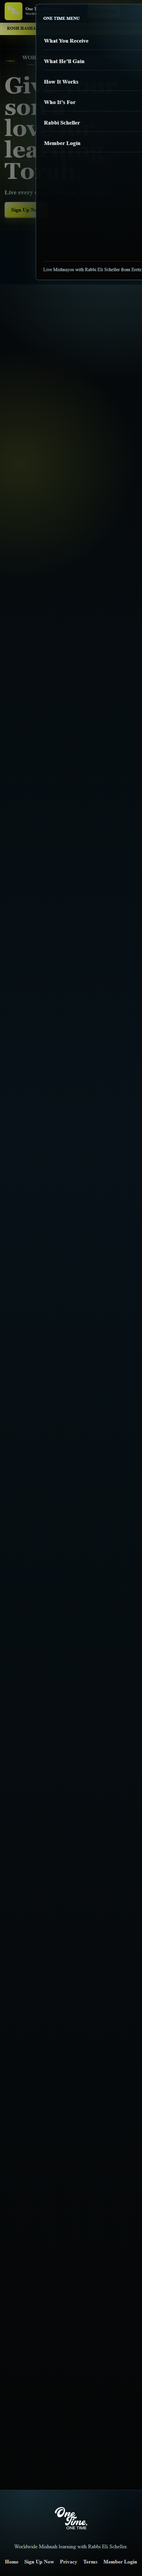
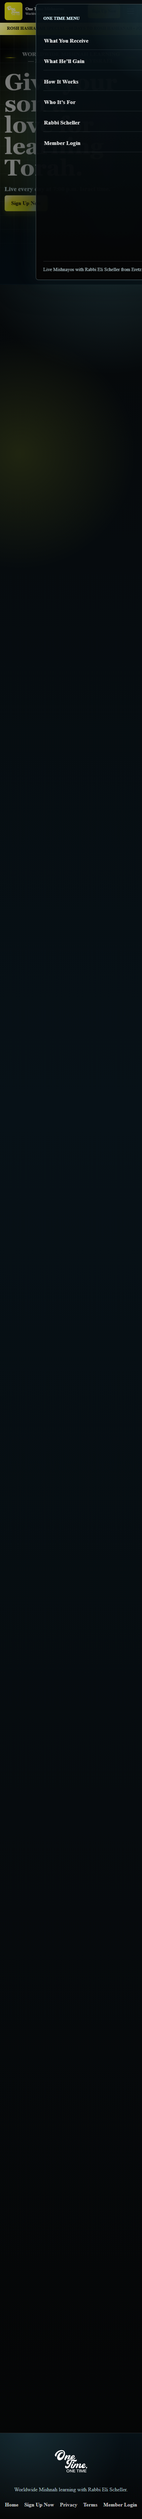
Tighten One Time bot and landing polish

diff --git a/public/one-time/index.html b/public/one-time/index.html
@@ -22,13 +22,13 @@
       --muted: rgba(255, 255, 255, 0.72);
       --ice: #dff8ff;
       --blue: #86e8ff;
-      --yellow: #f0ff32;
-      --yellow-soft: #faff82;
+      --yellow: #ede518;
+      --yellow-soft: #fff46a;
       --line: rgba(223, 248, 255, 0.18);
       --shadow: 0 30px 90px rgba(0, 0, 0, 0.48);
       --sans: Inter, ui-sans-serif, system-ui, -apple-system, BlinkMacSystemFont, "Segoe UI", sans-serif;
       --serif: Georgia, "Times New Roman", Times, serif;
-      --header-height: 74px;
+      --header-height: 76px;
     }
 
     * { box-sizing: border-box; }
@@ -77,11 +77,9 @@
       z-index: 1200;
       min-height: var(--header-height);
       border-bottom: 1px solid rgba(237, 229, 24, 0.24);
-      background:
-        radial-gradient(circle at 84% 0%, rgba(237, 229, 24, 0.12), transparent 20rem),
-        rgba(8, 9, 16, 0.96);
+      background: rgba(8, 9, 16, 0.96);
       backdrop-filter: blur(12px);
-      box-shadow: 0 10px 26px rgba(0, 0, 0, 0.22);
+      box-shadow: none;
     }
     .header-inner {
       min-height: var(--header-height);
@@ -165,7 +163,7 @@
       justify-content: center;
       gap: 9px;
       overflow: hidden;
-      border: 1px solid rgba(223, 248, 255, 0.7);
+      border: 1px solid rgba(237, 229, 24, 0.55);
       border-radius: 6px;
       padding: 0 19px;
       color: #040404;
@@ -174,8 +172,7 @@
         linear-gradient(180deg, var(--yellow-soft) 0%, var(--yellow) 48%, #e8f525 100%);
       box-shadow:
         inset 0 1px 0 rgba(255, 255, 255, 0.92),
-        inset 0 -2px 0 rgba(5, 5, 5, 0.28),
-        0 10px 24px rgba(237, 229, 24, 0.22);
+        0 8px 18px rgba(237, 229, 24, 0.2);
       font-weight: 950;
       white-space: nowrap;
       transition: transform 160ms ease, box-shadow 160ms ease, filter 160ms ease;
@@ -195,8 +192,7 @@
       filter: saturate(1.05);
       box-shadow:
         inset 0 1px 0 rgba(255, 255, 255, 0.95),
-        inset 0 -2px 0 rgba(5, 5, 5, 0.28),
-        0 14px 28px rgba(237, 229, 24, 0.28),
+        0 10px 22px rgba(237, 229, 24, 0.24),
         0 0 0 4px rgba(134, 232, 255, 0.18);
     }
     .chrome-button:hover::before, .chrome-button:focus-visible::before { transform: translateX(130%); }
@@ -369,7 +365,7 @@
     .hero-actions, .final-actions { display: flex; align-items: center; gap: 14px; flex-wrap: wrap; }
     @keyframes hero-in { from { opacity: 0; transform: translateY(22px); } to { opacity: 1; transform: translateY(0); } }
 
-    .section { position: relative; overflow: hidden; padding: clamp(62px, 7vw, 96px) 0; }
+    .section { position: relative; overflow: hidden; padding: clamp(52px, 6vw, 82px) 0; }
     .section.dark {
       background:
         radial-gradient(circle at 18% 18%, rgba(134, 232, 255, 0.14), transparent 22rem),
@@ -382,7 +378,7 @@
         radial-gradient(circle at 12% 70%, rgba(240, 255, 50, 0.08), transparent 18rem),
         linear-gradient(180deg, #071117, #0a1b24);
     }
-    .section-title { max-width: 820px; margin: 0 0 34px; }
+    .section-title { max-width: 820px; margin: 0 0 28px; }
     .section-title.center { margin-inline: auto; text-align: center; }
     .section-title p { max-width: 700px; margin: 16px 0 0; color: rgba(223, 248, 255, 0.78); font-size: clamp(1rem, 1.6vw, 1.18rem); }
     .receive-composition { display: grid; grid-template-columns: minmax(280px, 0.8fr) minmax(0, 1.2fr); align-items: center; gap: clamp(34px, 5vw, 72px); }
@@ -444,7 +440,7 @@
     }
     .benefit-body { display: grid; align-content: start; gap: 13px; }
     .benefit-body p { margin: 0; color: rgba(255, 255, 255, 0.84); }
-    .step-copy { max-width: 780px; margin: -14px auto 38px; color: rgba(223, 248, 255, 0.78); text-align: center; font-size: clamp(1rem, 1.5vw, 1.14rem); }
+    .step-copy { max-width: 780px; margin: -12px auto 30px; color: rgba(223, 248, 255, 0.78); text-align: center; font-size: clamp(1rem, 1.5vw, 1.14rem); }
     .step-flow { position: relative; display: grid; grid-template-columns: repeat(3, minmax(0, 1fr)); gap: 18px; }
     .step-flow::before { content: ""; position: absolute; top: 49px; left: 16%; right: 16%; height: 2px; background: linear-gradient(90deg, transparent, var(--blue), var(--yellow), var(--blue), transparent); box-shadow: 0 0 28px rgba(134, 232, 255, 0.34); }
     .step {
@@ -484,7 +480,7 @@
     .audience-grid { display: grid; grid-template-columns: repeat(4, minmax(0, 1fr)); gap: 16px; }
     .audience-card { min-height: 176px; display: grid; align-content: center; gap: 15px; padding: 20px; border-radius: 8px; }
     .audience-card p { margin: -5px 0 0; color: var(--yellow-soft); font-size: 0.9rem; font-weight: 850; }
-    .rabbi-layout { display: grid; grid-template-columns: minmax(0, 0.84fr) minmax(320px, 0.72fr); gap: clamp(28px, 5vw, 64px); align-items: center; margin-bottom: 54px; }
+    .rabbi-layout { display: grid; grid-template-columns: minmax(0, 0.84fr) minmax(320px, 0.72fr); gap: clamp(28px, 5vw, 64px); align-items: center; margin-bottom: 46px; }
     .rabbi-copy p:not(.eyebrow) { max-width: 640px; color: rgba(255, 255, 255, 0.78); font-size: 1.08rem; }
     .rabbi-photo { position: relative; margin: 0; aspect-ratio: 4 / 3; overflow: hidden; border: 1px solid rgba(223, 248, 255, 0.2); border-radius: 8px; box-shadow: var(--shadow); }
     .rabbi-photo::after { content: ""; position: absolute; inset: 0; border: 1px solid rgba(255, 255, 255, 0.12); pointer-events: none; }
@@ -504,13 +500,13 @@
     .carousel-dot { width: 11px; height: 11px; border: 1px solid rgba(223, 248, 255, 0.5); border-radius: 999px; background: rgba(223, 248, 255, 0.18); cursor: pointer; }
     .carousel-dot.active { width: 28px; background: var(--yellow); border-color: var(--yellow); box-shadow: 0 0 18px rgba(240, 255, 50, 0.34); }
     .carousel-dot:focus-visible { outline: 3px solid var(--blue); outline-offset: 3px; }
-    .press-band { margin-top: 60px; overflow: hidden; border-top: 1px solid rgba(223, 248, 255, 0.14); border-bottom: 1px solid rgba(223, 248, 255, 0.14); padding: 26px 0; }
+    .press-band { margin-top: 48px; overflow: hidden; border-top: 1px solid rgba(223, 248, 255, 0.14); border-bottom: 1px solid rgba(223, 248, 255, 0.14); padding: 24px 0; }
     .press-band h3 { margin: 0 0 18px; color: rgba(223, 248, 255, 0.82); text-align: center; }
     .press-track { width: max-content; display: flex; align-items: center; gap: 28px; animation: press-marquee 28s linear infinite; }
     .press-logo { width: 138px; height: 46px; display: grid; place-items: center; opacity: 0.72; filter: grayscale(1) brightness(1.24); }
     .press-logo img { max-width: 124px; max-height: 34px; object-fit: contain; background: transparent; }
     @keyframes press-marquee { from { transform: translateX(0); } to { transform: translateX(-50%); } }
-    .final-cta { padding: 64px 0; background: radial-gradient(circle at 50% 0%, rgba(240, 255, 50, 0.16), transparent 20rem), radial-gradient(circle at 80% 80%, rgba(134, 232, 255, 0.16), transparent 22rem), linear-gradient(180deg, #050505, #071117); text-align: center; }
+    .final-cta { padding: 56px 0; background: radial-gradient(circle at 50% 0%, rgba(237, 229, 24, 0.16), transparent 20rem), radial-gradient(circle at 80% 80%, rgba(134, 232, 255, 0.16), transparent 22rem), linear-gradient(180deg, #050505, #071117); text-align: center; }
     .final-cta h2 { margin-bottom: 24px; }
     .final-actions { justify-content: center; }
     .one-time-site-footer { border-top: 1px solid rgba(223, 248, 255, 0.16); background: radial-gradient(circle at 20% 0%, rgba(134, 232, 255, 0.12), transparent 18rem), linear-gradient(180deg, #071117, #050505); }
@@ -542,10 +538,10 @@
       .header-cta { min-height: 42px; padding: 0 11px; font-size: 0.82rem; }
       .icon-button { width: 42px; height: 42px; }
       .rosh-link { min-height: 36px; font-size: 0.82rem; }
-      .hero { min-height: calc(100svh - var(--header-height) - 36px); align-items: start; padding: 52px 0 112px; }
+      .hero { min-height: calc(100svh - var(--header-height) - 36px); align-items: start; padding: 42px 0 126px; }
       .hero .eyebrow { grid-template-columns: 36px minmax(0, auto) 36px; gap: 10px; font-size: clamp(0.95rem, 4vw, 1.06rem); text-align: center; }
-      .hero-schedule { margin-bottom: 22px; }
-      .hero-actions { margin-top: -4px; }
+      .hero-schedule { margin-bottom: 18px; }
+      .hero-actions { margin-top: -10px; }
       h1 { font-size: clamp(3.1rem, 16vw, 4.75rem); }
       .feature-grid, .benefit-grid, .audience-grid, .step-flow { grid-template-columns: 1fr; }
       .step-flow::before { top: 42px; bottom: 42px; left: 50%; right: auto; width: 2px; height: auto; background: linear-gradient(180deg, transparent, var(--blue), var(--yellow), var(--blue), transparent); }

diff --git a/public/one-time/signup.html b/public/one-time/signup.html
@@ -15,9 +15,9 @@
       --white: #ffffff;
       --paper: #f8f7f1;
       --muted-dark: #5b6268;
-      --yellow: #f0ff32;
-      --yellow-soft: #faff82;
-      --chrome: linear-gradient(115deg, rgba(255, 255, 255, 0.72) 0%, transparent 18%, transparent 58%, rgba(223, 248, 255, 0.68) 72%, transparent 100%), linear-gradient(180deg, #faff82 0%, #f0ff32 48%, #e8f525 100%);
+      --yellow: #ede518;
+      --yellow-soft: #fff46a;
+      --chrome: linear-gradient(115deg, rgba(255, 255, 255, 0.72) 0%, transparent 18%, transparent 58%, rgba(223, 248, 255, 0.68) 72%, transparent 100%), linear-gradient(180deg, #fff46a 0%, #ede518 52%, #e5dd16 100%);
       --ice: #dff8ff;
       --ice-strong: #8ee5ff;
       --line: rgba(255, 255, 255, 0.16);
@@ -93,66 +93,94 @@
       position: sticky;
       top: 0;
       z-index: 5;
-      border-bottom: 1px solid var(--line);
-      background: rgba(5, 5, 5, 0.94);
-      backdrop-filter: blur(16px);
+      border-bottom: 1px solid rgba(237, 229, 24, 0.2);
+      background: rgba(8, 9, 16, 0.96);
+      backdrop-filter: blur(12px);
     }
 
     .header-inner {
       width: min(1180px, calc(100% - 36px));
-      min-height: 74px;
+      min-height: 76px;
       margin: 0 auto;
       display: flex;
       align-items: center;
-      justify-content: space-between;
-      gap: 18px;
+      justify-content: flex-end;
+      gap: 8px;
     }
 
     .brand-lockup {
       display: inline-flex;
       align-items: center;
-      gap: 12px;
-      min-width: 0;
+      gap: 9px;
+      min-width: min(100%, 240px);
+      margin-right: auto;
+      color: var(--white);
+      font-weight: 950;
+      line-height: 1.08;
     }
 
     .brand-lockup img {
-      width: 120px;
-      height: auto;
+      width: 56px;
+      height: 56px;
+      flex: 0 0 auto;
+      padding: 4px;
+      border-radius: 8px;
+      background: var(--yellow);
+      object-fit: contain;
     }
 
     .brand-lockup span {
       display: block;
-      color: rgba(255, 255, 255, 0.74);
-      font-size: 0.78rem;
+      color: var(--white);
+      font-size: 0.92rem;
+      font-weight: 950;
+      line-height: 1.08;
+    }
+
+    .brand-lockup small {
+      display: block;
+      margin-top: 2px;
+      color: rgba(255, 255, 255, 0.68);
+      font-size: 0.68rem;
       font-weight: 850;
-      line-height: 1.1;
-      text-transform: uppercase;
     }
 
     .header-title {
       color: var(--white);
       font-weight: 900;
       min-width: 0;
+      min-height: 44px;
+      display: inline-flex;
+      align-items: center;
+      border: 1px solid rgba(237, 229, 24, 0.2);
+      border-radius: 8px;
+      background: rgba(255, 255, 255, 0.06);
+      padding: 9px 11px;
+      font-size: 0.82rem;
+      white-space: nowrap;
     }
 
     .back-link {
       display: inline-flex;
       align-items: center;
-      min-height: 42px;
-      padding: 0 13px;
-      border: 1px solid rgba(255, 255, 255, 0.2);
-      border-radius: 6px;
-      color: rgba(255, 255, 255, 0.82);
-      font-weight: 800;
+      justify-content: center;
+      min-height: 44px;
+      padding: 9px 11px;
+      border: 1px solid rgba(237, 229, 24, 0.2);
+      border-radius: 8px;
+      color: rgba(255, 255, 255, 0.92);
+      background: rgba(255, 255, 255, 0.06);
+      font-size: 0.82rem;
+      font-weight: 900;
       white-space: nowrap;
       transition: border-color 160ms ease, color 160ms ease, background 160ms ease;
     }
 
     .back-link:hover,
     .back-link:focus-visible {
-      color: var(--white);
-      border-color: rgba(242, 229, 59, 0.68);
-      background: rgba(255, 255, 255, 0.07);
+      color: var(--black);
+      border-color: var(--yellow);
+      background: var(--yellow);
       outline: none;
     }
 
@@ -532,7 +560,7 @@
       border-radius: 6px;
       color: var(--black);
       background: var(--chrome);
-      box-shadow: 0 14px 34px rgba(242, 229, 59, 0.28);
+      box-shadow: 0 8px 18px rgba(237, 229, 24, 0.2);
       cursor: pointer;
       overflow: hidden;
       font-weight: 950;
@@ -555,7 +583,7 @@
     .button:focus-visible {
       transform: translateY(-1px);
       filter: saturate(1.08);
-      box-shadow: 0 18px 40px rgba(242, 229, 59, 0.34);
+      box-shadow: 0 10px 22px rgba(237, 229, 24, 0.24);
       outline: none;
     }
 
@@ -739,11 +767,12 @@
     @media (max-width: 640px) {
       .header-inner {
         width: min(100% - 28px, 1180px);
-        min-height: 66px;
+        min-height: 72px;
       }
 
       .brand-lockup img {
-        width: 98px;
+        width: 54px;
+        height: 54px;
       }
 
       .brand-lockup span {
@@ -809,8 +838,8 @@
     <header class="signup-header">
       <div class="header-inner">
         <a class="brand-lockup" href="/one-time" aria-label="One Time home">
-          <img src="/assets/one-time/brand/one-time-logo-white.webp" width="120" height="76" alt="One Time">
-          <span>Worldwide Mishnah Learning</span>
+          <img src="/images/one-time/brand/onetimelogo.webp" width="56" height="56" alt="" aria-hidden="true">
+          <span>One Time Mishnayos<small>Sign up</small></span>
         </a>
         <div class="header-title">Sign Up Now</div>
         <a class="back-link" href="/one-time" data-action-id="ACTION-ONETIME-SIGNUP-BACK-HOME">Back to Home</a>

diff --git a/tests/service-provider-lead-bot.test.js b/tests/service-provider-lead-bot.test.js
@@ -29,6 +29,8 @@ test('One Time provider-bot profile has explicit GHL-style sections without priv
   assert.ok(profile.knowledge_base.approved_benefits.some((item) => /live hybrid Mishnayos/i.test(item)));
   assert.ok(profile.knowledge_base.approved_benefits.every((item) => !/parent portal|student portal|library|accountability/i.test(item)));
   assert.equal(profile.knowledge_base.access_policy.portal_access_status, 'not_currently_granted');
+  assert.match(profile.knowledge_base.access_policy.operator_correction, /not giving portal access yet/i);
+  assert.match(profile.knowledge_base.access_policy.safe_public_answer, /not giving portal access yet/i);
   assert.match(profile.knowledge_base.access_policy.safe_public_answer, /not being opened or promised yet/i);
   assert.equal(profile.policies.activation_mode, 'observe_only');
   assert.equal(schema.$id, 'bna.provider_lead_bot.v1');
@@ -210,6 +212,7 @@ test('program, portal, trial, and price replies use only safe unpublished bot fa
     contact: { contact_type: 'lead', lead_id: 19 },
   });
   assert.equal(benefits.intent, 'program_benefits');
+  assert.match(benefits.reply_body, /We are not giving portal access yet/);
   assert.match(benefits.reply_body, /Portal, library, student-login, parent-login, and member access are not being opened or promised yet/);
   assert.doesNotMatch(benefits.reply_body, /A parent portal and a student portal|Online class library|30-day|\$67/i);
   assert.equal(benefits.guardrails.portal_access_not_granted_by_bot, true);
@@ -268,6 +271,7 @@ test('natural-language prompt is knowledge-scoped and never receives the raw joi
   assert.match(prompt, /Robot Scheller/);
   assert.match(prompt, /Offer terms:/);
   assert.match(prompt, /Do not state a trial length, price, renewal term, payment flow, portal availability, library availability, or member access as an approved fact/);
+  assert.match(prompt, /We are not giving portal access yet/);
   assert.match(prompt, /Portal, library, student-login, parent-login, and member access are not being opened or promised yet/);
   assert.doesNotMatch(prompt, /30-day trial|\$67/);
   assert.match(prompt, /may not authorize a send/i);

diff --git a/tests/one-time-focused-landing.test.js b/tests/one-time-focused-landing.test.js
@@ -10,6 +10,11 @@ test('One Time focused landing copy uses launch funnel offer and safe CTAs', () 
   assert.match(html, /Give your son a love for learning Torah\./);
   assert.match(html, /Sign Up Now/);
   assert.match(html, /href="\/one-time\/signup"/);
+  assert.match(html, /--yellow: #ede518;/);
+  assert.match(html, /\.site-header \{[\s\S]*background: rgba\(8, 9, 16, 0\.96\);[\s\S]*box-shadow: none;/);
+  assert.match(html, /\.section \{ position: relative; overflow: hidden; padding: clamp\(52px, 6vw, 82px\) 0; \}/);
+  assert.match(html, /\.hero-actions \{ margin-top: -10px; \}/);
+  assert.doesNotMatch(html, /inset 0 -2px 0 rgba\(5, 5, 5, 0\.28\)/);
   assert.doesNotMatch(html, /data-signup-modal/);
   assert.doesNotMatch(html, /data-signup-form/);
   assert.match(signup, /name="contact_name"/);
@@ -18,6 +23,9 @@ test('One Time focused landing copy uses launch funnel offer and safe CTAs', () 
   assert.match(signup, /name="email"/);
   assert.match(signup, /name="phone"/);
   assert.match(signup, /name="reminder_preference"/);
+  assert.match(signup, /<span>One Time Mishnayos<small>Sign up<\/small><\/span>/);
+  assert.match(signup, /box-shadow: 0 8px 18px rgba\(237, 229, 24, 0\.2\);/);
+  assert.doesNotMatch(signup, /box-shadow: 0 14px 34px rgba\(242, 229, 59, 0\.28\);/);
   assert.doesNotMatch(html, /name="student_name"|name="studentName"|name="learner_name"|name="learnerName"/);
   assert.doesNotMatch(signup, /name="student_name"|name="studentName"|name="learner_name"|name="learnerName"/);
   assert.doesNotMatch(signup, /preferred_class_format/);

diff --git a/tests/one-time-direct-signup-page.test.js b/tests/one-time-direct-signup-page.test.js
@@ -58,6 +58,9 @@ test('One Time direct signup route, registries, and landing CTAs are canonical',
   assert.match(server, /app\.get\(\['\/one-time\/signup', '\/one-time\/signup\/'\], sendOneTimeSignupPage\)/);
 
   assert.match(signupHtml, /data-one-time-signup-page/);
+  assert.match(signupHtml, /<img src="\/images\/one-time\/brand\/onetimelogo\.webp" width="56" height="56" alt="" aria-hidden="true">/);
+  assert.match(signupHtml, /<span>One Time Mishnayos<small>Sign up<\/small><\/span>/);
+  assert.match(signupHtml, /\.signup-header \{[\s\S]*background: rgba\(8, 9, 16, 0\.96\);[\s\S]*backdrop-filter: blur\(12px\);/);
   assert.match(signupHtml, /data-one-time-direct-signup-form/);
   assert.match(signupHtml, /name="contact_name"/);
   assert.match(signupHtml, /name="signup_as"/);

diff --git a/ops/product-quality-compiler/validation/latest-product-quality-validation.md b/ops/product-quality-compiler/validation/latest-product-quality-validation.md
@@ -1,6 +1,6 @@
 # Product Quality Compiler Validation
 
-Generated: 2026-07-12T22:14:10.443Z
+Generated: 2026-07-13T00:21:36.486Z
 Mode: default
 Files scanned: 90
 Passed: 79

diff --git a/ops/ui-audits/2026-07-12-onetime-landing-whatsapp-local/report.md b/ops/ui-audits/2026-07-12-onetime-landing-whatsapp-local/report.md
@@ -1,6 +1,6 @@
 # One Time Landing WhatsApp Local Smoke
 
-Generated: 2026-07-12T22:12:05.756Z
+Generated: 2026-07-13T00:20:22.582Z
 Requirement: REQ-20260712-109
 
 ## Result

diff --git a/ops/watchdog-audits/2026-07-13-product-quality-drift.md b/ops/watchdog-audits/2026-07-13-product-quality-drift.md
@@ -1,6 +1,6 @@
 # Product Quality Protocol Drift Watchdog
 
-Generated: 2026-07-13T00:03:03.542Z
+Generated: 2026-07-13T00:21:36.533Z
 Files scanned: 633
 Findings: 0
 
